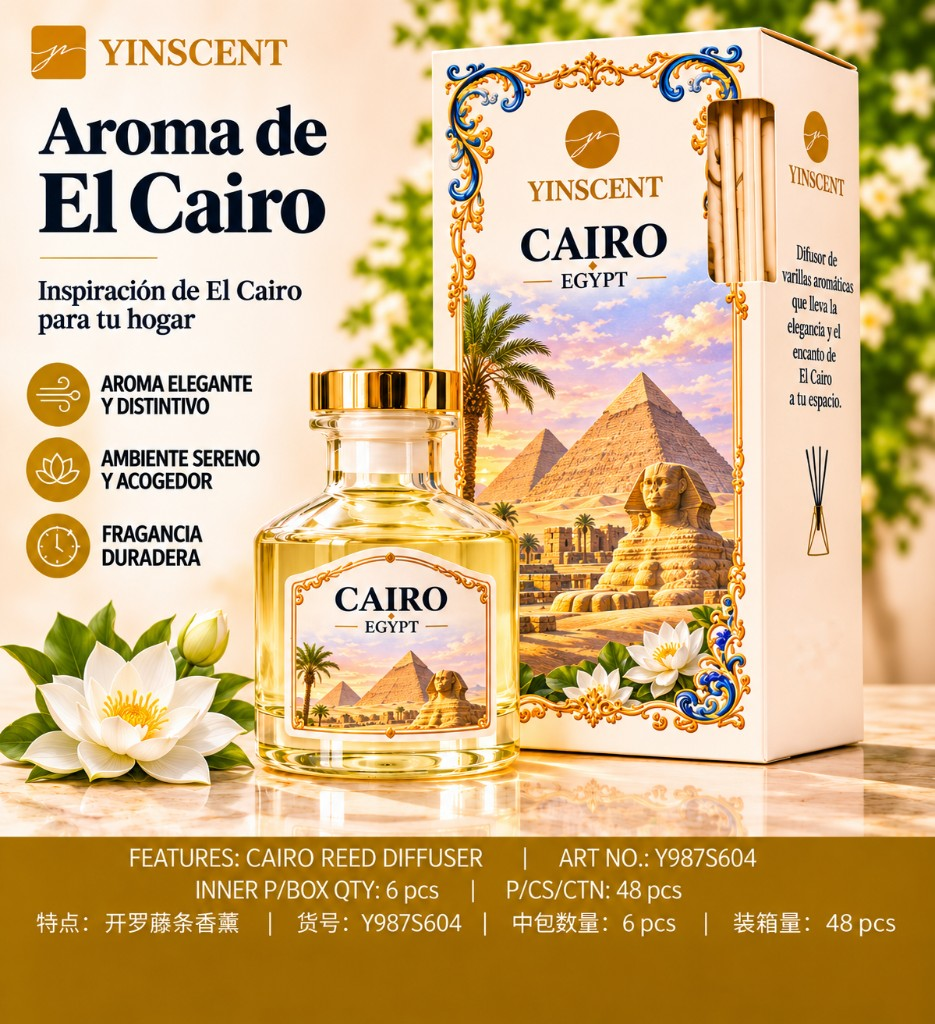
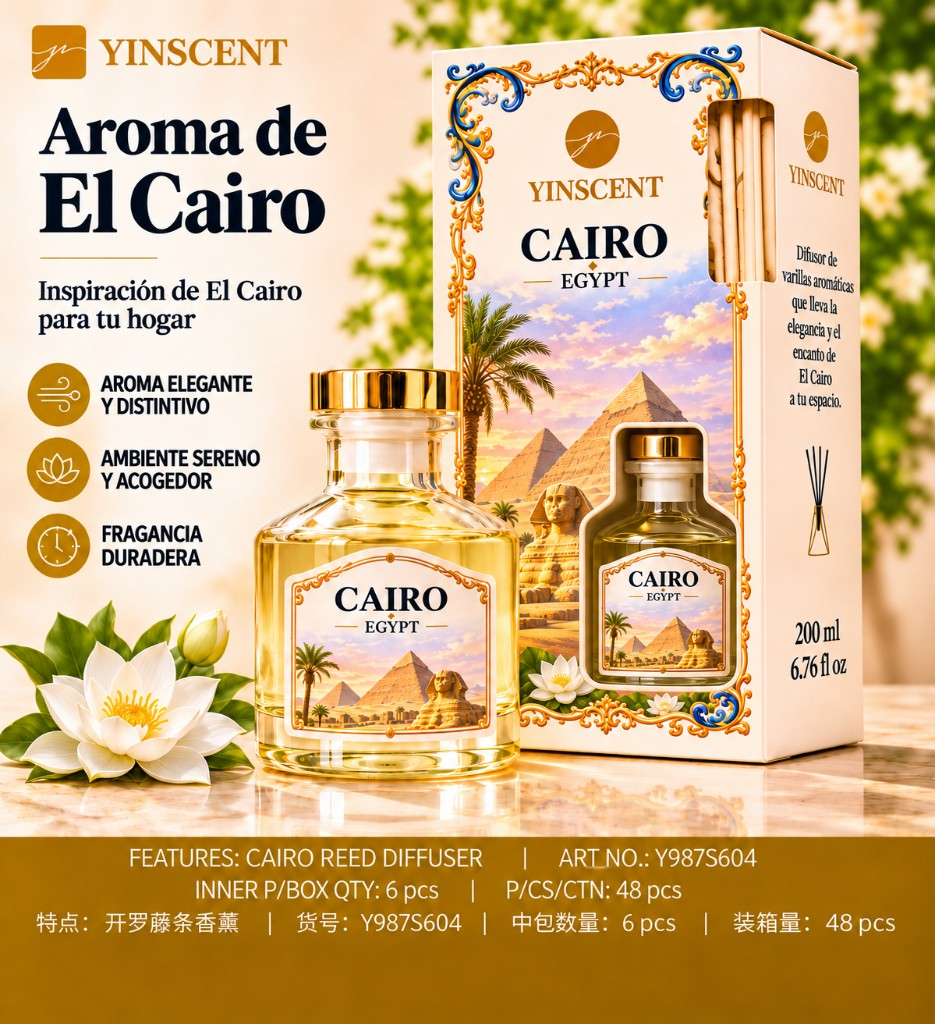
Replace six city reed diffuser photos.

diff --git a/index.html b/index.html
@@ -877,8 +877,8 @@
   <script src="js/i18n.js?v=60"></script>
   <script src="js/auth.js?v=7"></script>
   <script src="js/catalog.js?v=2"></script>
-  <script src="js/main.js?v=90"></script>
-  <script src="js/product.js?v=45"></script>
+  <script src="js/main.js?v=91"></script>
+  <script src="js/product.js?v=46"></script>
   <script src="js/story.js?v=5"></script>
   <script src="js/contact.js?v=2"></script>
   <script src="js/to-top.js?v=3"></script>

diff --git a/js/main.js b/js/main.js
@@ -64,7 +64,7 @@
     if (/^[a-z]+-zodiac-diffuser$/.test(slug)) url += "?v=13";
     if (/-reed-refill$/.test(slug)) url += "?v=14";
     if (/-christmas-diffuser$/.test(slug)) url += "?v=15";
-    if (/-city-diffuser$/.test(slug)) url += "?v=27";
+    if (/-city-diffuser$/.test(slug)) url += "?v=29";
     if (/-sachet$/.test(slug)) url += "?v=28";
     if (/-zodiac-candle$/.test(slug)) url += "?v=24";
     if (/-cup-candle$/.test(slug)) url += "?v=16";

diff --git a/js/product.js b/js/product.js
@@ -76,7 +76,7 @@
     if (/^[a-z]+-zodiac-diffuser$/.test(slug)) url += "?v=13";
     if (/-reed-refill$/.test(slug)) url += "?v=14";
     if (/-christmas-diffuser$/.test(slug)) url += "?v=15";
-    if (/-city-diffuser$/.test(slug)) url += "?v=27";
+    if (/-city-diffuser$/.test(slug)) url += "?v=29";
     if (/-sachet$/.test(slug)) url += "?v=28";
     if (/-zodiac-candle$/.test(slug)) url += "?v=24";
     if (/-cup-candle$/.test(slug)) url += "?v=16";
